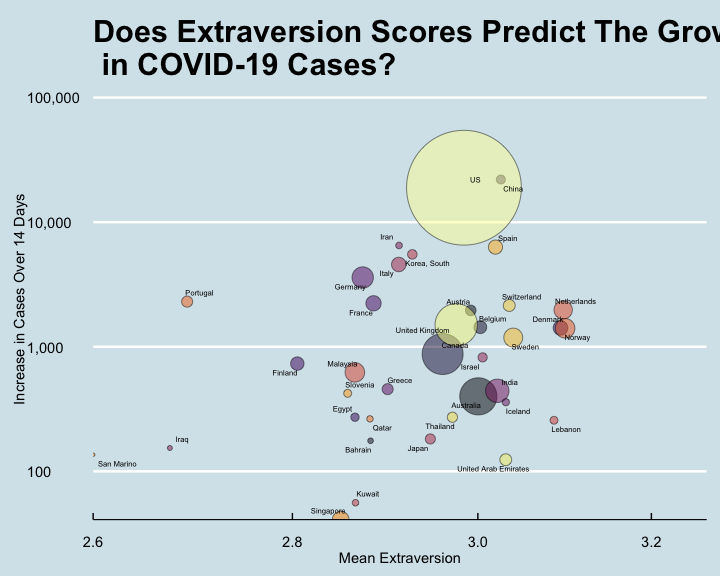
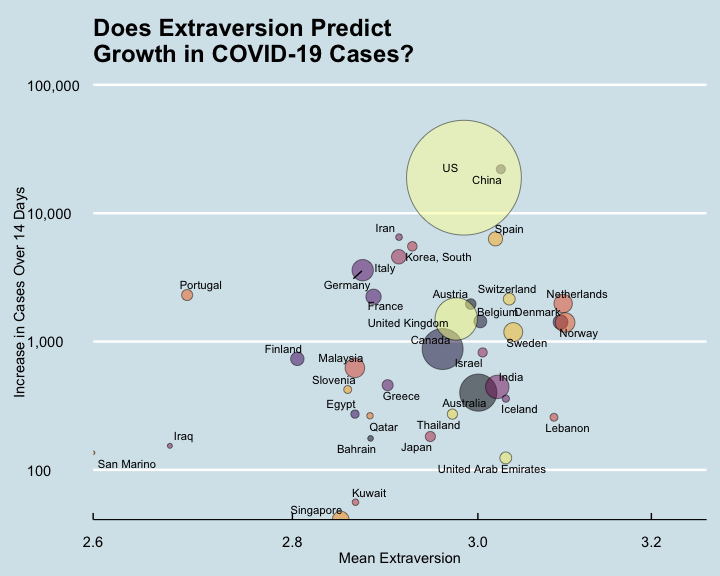
resize plots

diff --git a/README.md b/README.md
@@ -297,19 +297,19 @@ library(extrafont)
   scale_size(range = c(.9, 40), name="country's Cases",
                 labels = scales::comma, guide = FALSE) +
  scale_fill_viridis(discrete=TRUE, guide=FALSE, option="B") +
-ggrepel::geom_text_repel(aes(label = country), size = 2) +
+ggrepel::geom_text_repel(aes(label = country), size = 3) +
 scale_x_log10(label = scales::comma,expand = expansion(mult = c(0, .3)))+
 scale_y_log10(label = scales::comma,expand = expansion(mult = c(0, .3))) +
  
 theme_ipsum() +
 theme(text=element_text(family="notosans"),
  legend.position="bottom") +
-  labs(title="Does Extraversion Scores Predict The Growth\n in COVID-19 Cases?",
+  labs(title="Does Extraversion Predict\nGrowth in COVID-19 Cases?",
    x="Mean Extraversion", y="Increase in Cases Over 14 Days")+
 
 ggthemes::theme_economist() +
 theme(legend.text = element_text(size=10),
- plot.title = element_text(size=23),
+ plot.title = element_text(size=18),
 axis.title.x = element_text(vjust = -0.8),
 axis.title.y = element_text(vjust = 0.8),
  plot.caption = element_text(vjust = -1,size=9),
@@ -330,19 +330,19 @@ legend.position = c(0.4,0.85))
    scale_size(range = c(.9, 40), name="country's Cases",
               labels = scales::comma, guide = FALSE) +
    scale_fill_viridis(discrete=TRUE, guide=FALSE, option="B") +
-   ggrepel::geom_text_repel(aes(label = country), size = 2) +
+   ggrepel::geom_text_repel(aes(label = country), size = 3) +
    scale_x_log10(label = scales::comma,expand = expansion(mult = c(0, .3)))+
    scale_y_log10(label = scales::comma,expand = expansion(mult = c(0, .3))) +
    
    theme_ipsum() +
    theme(text=element_text(family="notosans"),
          legend.position="bottom") +
-   labs(title="Does Emotional Stability Scores Predict The Growth\n in COVID-19 Cases?",
+   labs(title="Does Emotional Stability Predict\nGrowth in COVID-19 Cases?",
         x="Mean Emotional Stability", y="Increase in Cases Over 14 Days")+
    
    ggthemes::theme_economist() +
    theme(legend.text = element_text(size=10),
-         plot.title = element_text(size=23),
+         plot.title = element_text(size=18),
          axis.title.x = element_text(vjust = -0.8),
          axis.title.y = element_text(vjust = 0.8),
          plot.caption = element_text(vjust = -1,size=9),
@@ -359,19 +359,19 @@ legend.position = c(0.4,0.85))
    scale_size(range = c(.9, 40), name="country's Cases",
               labels = scales::comma, guide = FALSE) +
    scale_fill_viridis(discrete=TRUE, guide=FALSE, option="B") +
-   ggrepel::geom_text_repel(aes(label = country), size = 2) +
+   ggrepel::geom_text_repel(aes(label = country), size = 3) +
    scale_x_log10(label = scales::comma,expand = expansion(mult = c(0, .3)))+
    scale_y_log10(label = scales::comma,expand = expansion(mult = c(0, .3))) +
    
    theme_ipsum() +
    theme(text=element_text(family="notosans"),
          legend.position="bottom") +
-   labs(title="Does Agreeableness Scores Predict The Growth\n in COVID-19 Cases?",
+   labs(title="Does Agreeableness Predict\nGrowth in COVID-19 Cases?",
         x="Mean Agreeableness", y="Increase in Cases Over 14 Days")+
    
    ggthemes::theme_economist() +
    theme(legend.text = element_text(size=10),
-         plot.title = element_text(size=23),
+         plot.title = element_text(size=18),
          axis.title.x = element_text(vjust = -0.8),
          axis.title.y = element_text(vjust = 0.8),
          plot.caption = element_text(vjust = -1,size=9),
@@ -388,19 +388,19 @@ legend.position = c(0.4,0.85))
    scale_size(range = c(.9, 40), name="country's Cases",
               labels = scales::comma, guide = FALSE) +
    scale_fill_viridis(discrete=TRUE, guide=FALSE, option="B") +
-   ggrepel::geom_text_repel(aes(label = country), size = 2) +
+   ggrepel::geom_text_repel(aes(label = country), size = 3) +
    scale_x_log10(label = scales::comma,expand = expansion(mult = c(0, .3)))+
    scale_y_log10(label = scales::comma,expand = expansion(mult = c(0, .3))) +
    
    theme_ipsum() +
    theme(text=element_text(family="notosans"),
          legend.position="bottom") +
-   labs(title="Does Conscientiousness Scores Predict The Growth\n in COVID-19 Cases?",
+   labs(title="Does Conscientiousness Predict\nGrowth in COVID-19 Cases?",
         x="Mean Conscientiousness", y="Increase in Cases Over 14 Days")+
    
    ggthemes::theme_economist() +
    theme(legend.text = element_text(size=10),
-         plot.title = element_text(size=23),
+         plot.title = element_text(size=18),
          axis.title.x = element_text(vjust = -0.8),
          axis.title.y = element_text(vjust = 0.8),
          plot.caption = element_text(vjust = -1,size=9),
@@ -417,19 +417,19 @@ legend.position = c(0.4,0.85))
    scale_size(range = c(.9, 40), name="country's Cases",
               labels = scales::comma, guide = FALSE) +
    scale_fill_viridis(discrete=TRUE, guide=FALSE, option="B") +
-   ggrepel::geom_text_repel(aes(label = country), size = 2) +
+   ggrepel::geom_text_repel(aes(label = country), size = 3) +
    scale_x_log10(label = scales::comma,expand = expansion(mult = c(0, .3)))+
    scale_y_log10(label = scales::comma,expand = expansion(mult = c(0, .3))) +
    
    theme_ipsum() +
    theme(text=element_text(family="notosans"),
          legend.position="bottom") +
-   labs(title="Does Openness Scores Predict The Growth\n in COVID-19 Cases?",
+   labs(title="Does Openness Predict\nGrowth in COVID-19 Cases?",
         x="Mean Openness", y="Increase in Cases Over 14 Days")+
    
    ggthemes::theme_economist() +
    theme(legend.text = element_text(size=10),
-         plot.title = element_text(size=23),
+         plot.title = element_text(size=18),
          axis.title.x = element_text(vjust = -0.8),
          axis.title.y = element_text(vjust = 0.8),
          plot.caption = element_text(vjust = -1,size=9),
